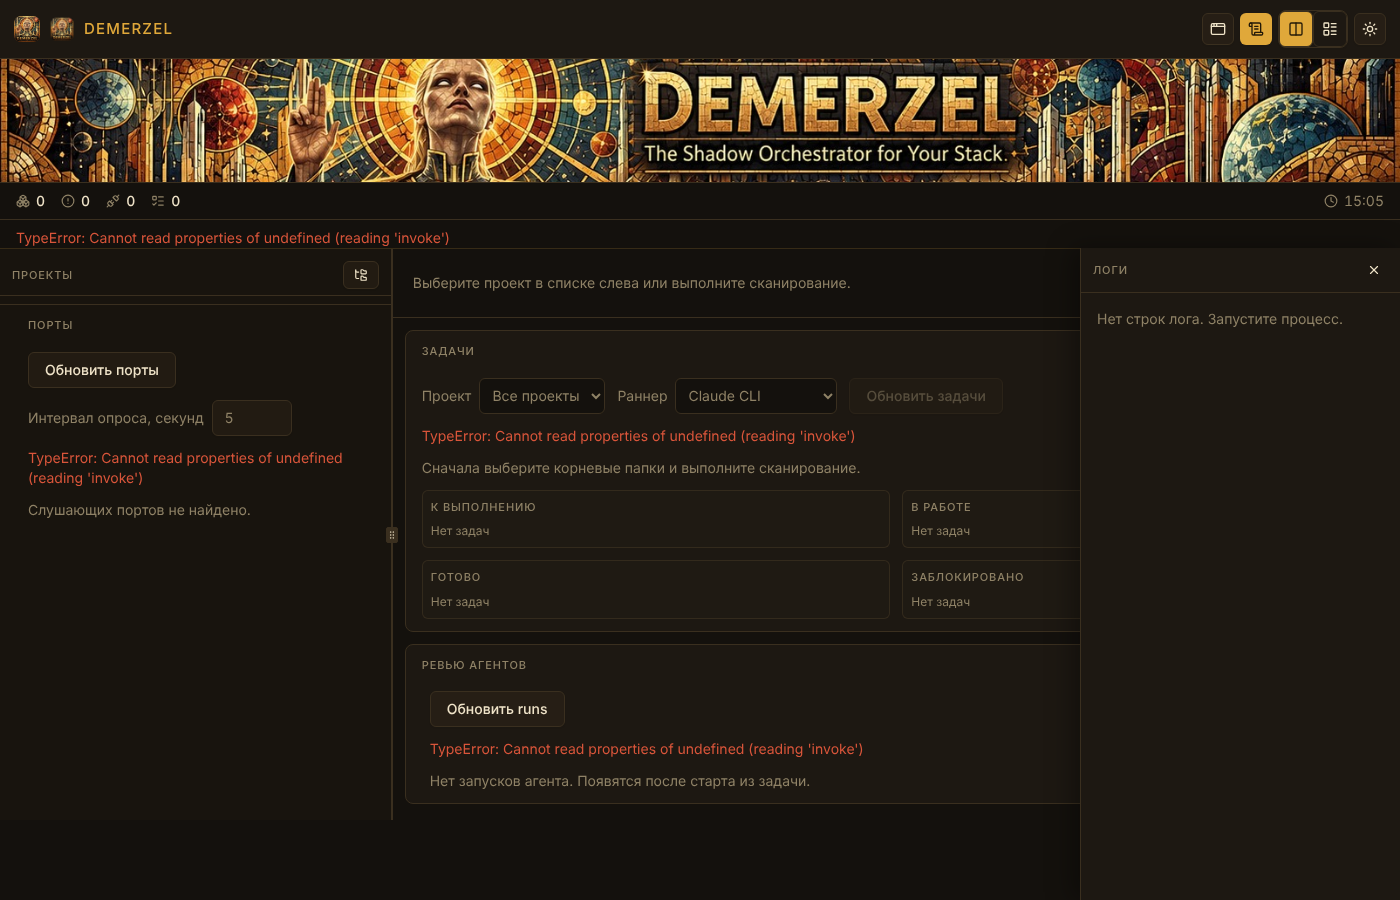
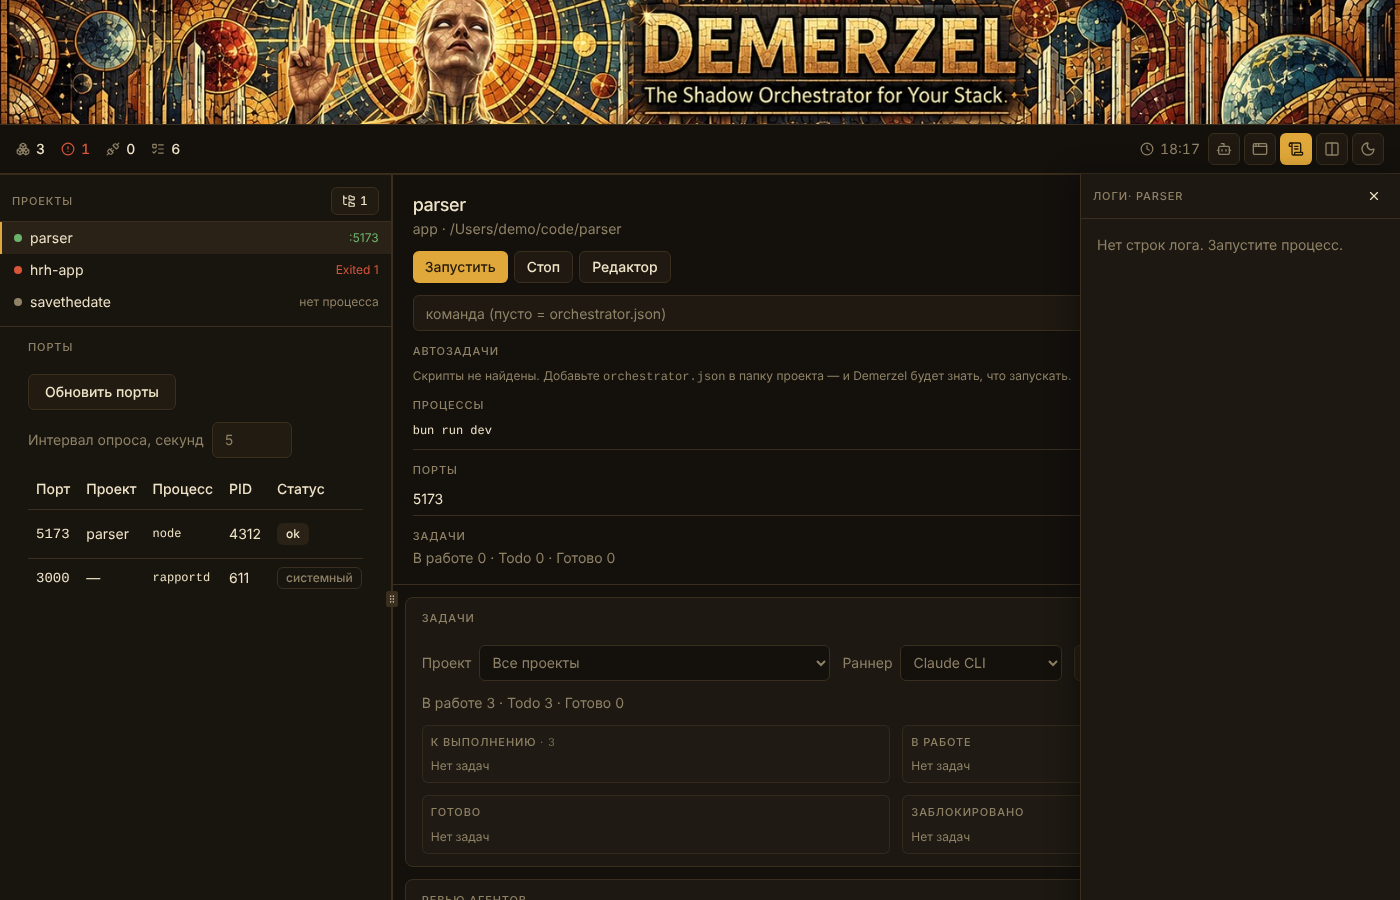
test: мок Tauri invoke для скриншотов (#150) (#162)
Claude-Session: https://claude.ai/code/session_014XcMya9sX1ZzPoq7SByVL6

diff --git a/scripts/tauri-mock.js b/scripts/tauri-mock.js
@@ -1,0 +1,51 @@
+// Мок Tauri invoke для скриншотов и браузерных проверок (#150).
+// Подставляется через page.addInitScript: отвечает фикстурами на вызовы UI, без Rust-бэкенда.
+// Неизвестные команды получают null — UI показывает пустое состояние, а не падает.
+(() => {
+  const PROJECTS = [
+    { name: "parser", path: "/Users/demo/code/parser", children: [] },
+    { name: "hrh-app", path: "/Users/demo/code/hrh-app", children: [] },
+    { name: "savethedate", path: "/Users/demo/code/savethedate", children: [] },
+  ];
+  const fixtures = {
+    get_settings: { scan_roots: ["/Users/demo/code"], alerts: undefined, agents: undefined },
+    scan_projects: PROJECTS,
+    list_processes: [
+      { id: 1, project: "parser", command: "bun run dev", status: "Running", pid: 4312, port: 5173 },
+      { id: 2, project: "hrh-app", command: "bun run dev", status: { Exited: 1 }, pid: null, port: null },
+    ],
+    list_ports: [
+      { port: 5173, project: "parser", command: "node", pid: 4312, status: "ok", managed_id: 1 },
+      { port: 3000, project: null, command: "rapportd", pid: 611, status: "ok", managed_id: null },
+    ],
+    project_tasks: [
+      { id: "t1", project: "parser", title: "Проверить парсер [ссылка](https://example.com)", status: "todo", source: "github", url: null },
+      { id: "t2", project: "hrh-app", title: "Обновить лендинг", status: "in_progress", source: "notion", url: null },
+    ],
+    list_agent_runs: [],
+    list_available_agents: [],
+    automation_statuses: [],
+    load_automations: { discovered: [], selected: [], restart: { enabled: false, max_retries: 3 } },
+    resolve_preferred_agent: null,
+    resolve_dev_command: "bun run dev",
+    list_dir_children: [],
+    process_logs: [],
+  };
+  const callbacks = new Map();
+  let nextId = 1;
+  window.__TAURI_INTERNALS__ = {
+    invoke: async (cmd) => {
+      if (cmd in fixtures) return structuredClone(fixtures[cmd]);
+      if (cmd.startsWith("plugin:")) return 0;
+      return null;
+    },
+    transformCallback: (cb) => {
+      const id = nextId++;
+      callbacks.set(id, cb);
+      return id;
+    },
+    unregisterCallback: (id) => callbacks.delete(id),
+    convertFileSrc: (p) => p,
+    metadata: { currentWindow: { label: "main" }, currentWebview: { label: "main" } },
+  };
+})();

diff --git a/CHANGELOG.md b/CHANGELOG.md
@@ -1,5 +1,9 @@
 # Changelog
 
+## 0.55.20 — 2026-10-31
+
+- Тесты (#150): скриншоты снимаются с мок-данными Tauri invoke (`scripts/tauri-mock.js`), без Rust-бэкенда. Неизвестные команды получают `null`, UI показывает пустые состояния.
+
 ## 0.55.19 — 2026-10-31
 
 - UI: панель окна (агенты, виджеты, логи, вид, тема) перенесена в строку сводки; баннер без оверлея.

diff --git a/MARKETING.md b/MARKETING.md
@@ -2,6 +2,9 @@
 
 Записи для публикаций в соцсетях. Формат: см. [docs/CONVENTIONS.md](docs/CONVENTIONS.md#журналы).
 
+## 0.55.20 — 2026-10-31
+- Улучшено: скриншоты интерфейса для журналов снимаются с тестовыми данными — без личных путей.
+
 ## 0.55.19 — 2026-10-31
 - Улучшено: кнопки окна рядом со сводкой, баннер снова чистый.
 
